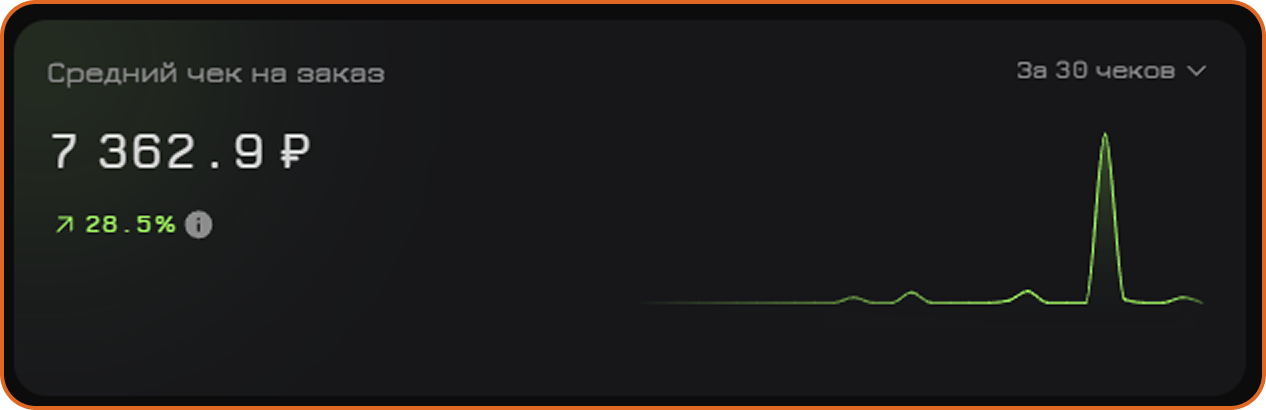
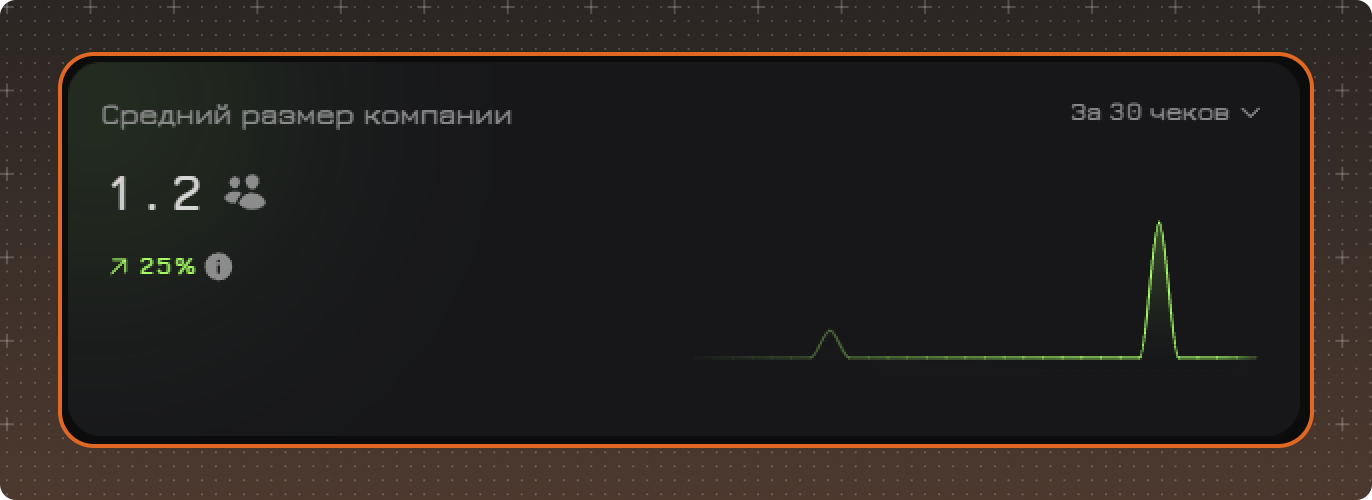
Guest update 19avg (#41)
* guest update 19avg

* update

Changed region(s): [[0.0, 0.0, 1.0, 1.0]]

diff --git a/content/ru/marketing/guests/3.guests-statistics.md b/content/ru/marketing/guests/3.guests-statistics.md
@@ -3,7 +3,7 @@ title: Карточка гостя
 description: 
 summary: 
 order: 3
-updatedAt: 2026-07-13
+updatedAt: 2026-08-19
 ---
 
 
@@ -20,12 +20,6 @@ updatedAt: 2026-07-13
 ![карточка гостя](/ru/images/guests/olga.png)
 
 [[delimiter rows=1]]
-
-
-
-
-
-
 
 
 
@@ -70,14 +64,9 @@ updatedAt: 2026-07-13
 
 [[delimiter rows=1]]
 
-Чтобы изменить личные данные гостя, нажмите кнопку с двоеточием и выберите **Редактировать**.
+Чтобы изменить личные данные гостя, нажмите кнопку с двоеточием и выберите **Редактировать**. Внесите необходимые изменения и нажмите **Сохранить**.
 
-После этого можно изменить имя, фамилию, пол, дату рождения, адрес электронной почты, Telegram, телефон или номер карты лояльности.
-
-> **Примечание.** При редактировании личных данных учитывайте следующие ограничения:  
-> ✔ Если к номеру телефона привязана карта лояльности, изменить номер телефона невозможно.  
-> ✔ Номер карты лояльности можно изменить только для VIP-карты, выданной компанией. Номер карты лояльности из другой системы изменить невозможно.  
-> ✔ У гостя с VIP-картой лояльности не может быть указан номер телефона.
+Подробнее о смене номера телефона см. в разделе [**Номера телефона**](/ru/marketing/guests/2.guests-create#номера-телефона).
 
 
 
@@ -89,25 +78,25 @@ updatedAt: 2026-07-13
 
 [[delimiter rows=1]]
 
-**01.** Аватар гостя  
-**02.** Заметка и предпочтения  
-**03.** Программа лояльности   
-**04.** Средний чек на заказ   
-**05.** Средний размер компании   
-**06.** Средний чек на гостя     
-**07.** Среднее количество заказов в месяц  
-**08.** Автотеги и ручные теги  
-**09.** Посещения  
-**10.** Ключевые показатели  
+**1. Аватар гостя**  
+**2. Заметка и предпочтения**  
+**3. Программа лояльности**  
+**4. Средний чек на заказ**  
+**5. Средний размер компании**  
+**6. Средний чек на гостя**  
+**7. Среднее количество заказов в месяц**  
+**8. Автотеги и ручные теги**  
+**9. Посещения**  
+**10. Ключевые показатели** 
 
 ![карточка гостя низ](/ru/images/guests/guest-main-bottom.png) 
 
 [[delimiter rows=1]]
 
-**11.** Всего заплачено  
-**12.** Топ категорий  
-**13.** Топ продуктов  
-**14.** Время посещения  
+**11. Всего заплачено**  
+**12. Топ категорий**  
+**13. Топ продуктов**  
+**14. Время посещения** 
 
 
 ### 1. Аватар гостя
@@ -126,7 +115,7 @@ updatedAt: 2026-07-13
 
 ✔ краткое описание текущего RFM-статуса
 
-Подробную информацию можно найти на странице [RFM](https://wiki.cosmosresto.ru/ru/marketing/rfm/).
+Подробную информацию можно найти на странице **[RFM](https://wiki.cosmosresto.ru/ru/marketing/rfm/)**.
 
 
 ### 2. Заметка и предпочтения
@@ -152,7 +141,7 @@ updatedAt: 2026-07-13
 
 [[delimiter rows=1]]
 
-В верхней части карточки расположен виджет программы лояльности. В нем отображается баланс бонусного счета, привязанного к карте лояльности.
+В верхней части карточки гостя расположен виджет программы лояльности. В нем отображается баланс бонусного счета, привязанного к карте лояльности.
 
 Нажмите на виджет, чтобы открыть список всех бонусных счетов гостя. Для каждого счета отображаются его название и текущий баланс.
 
@@ -164,7 +153,7 @@ updatedAt: 2026-07-13
 
 ### 4. **Средний чек на заказ**
 
-![Средний чек на заказ](/ru/images/guests/avg-check-order.png)
+![Средний чек на заказ](/ru/images/guests/avg-check-per-order.png)
 
 [[delimiter rows=1]]
 
@@ -192,7 +181,7 @@ updatedAt: 2026-07-13
 
 ### 6. **Средний чек на гостя**
 
-![Средний чек на гостя](/ru/images/guests/avg-check-guest.png)
+![Средний чек на гостя](/ru/images/guests/avg-check-per-guest.png)
 
 [[delimiter rows=1]]
 
@@ -269,18 +258,16 @@ updatedAt: 2026-07-13
 
 Расчет выполняется на основе закрытых чеков в выбранных локациях за выбранный период.
 
-Отображаются:
+Отображаются:  
 
-| Показатель | Описание |
-|------------|----------|
-| **Сумма оплат** | Общая сумма оплат по всем чекам гостя |
-| **Скидка** | Общая сумма скидок по всем чекам гостя |
-| **Количество чеков** | Общее количество чеков гостя |
-| **Последний чек** | Сумма последнего чека гостя |
-| **Средний чек** | Средняя стоимость одного заказа гостя |
-| **Средний чек за час** | Отношение общей суммы оплат к общей продолжительности визитов |
-| **Среднее время** | Средняя продолжительность визита |
-| **Любимая локация** | Локация, которую гость посещал чаще всего |
+**Сумма оплат**  
+**Скидка**  
+**Количество чеков**  
+**Последний чек**  
+**Средний чек**  
+**Средний чек за час**  
+**Среднее время**  
+**Любимая локация**  
 
 
 **Радиальная диаграмма** отображает относительные значения следующих показателей по сравнению с другими гостями выбранных локаций:

diff --git a/content/ru/marketing/guests/4.guests-reservations.md b/content/ru/marketing/guests/4.guests-reservations.md
@@ -3,7 +3,7 @@ title: Бронирования
 description: 
 summary: 
 order: 4
-updatedAt: 2026-07-13
+updatedAt: 2026-08-19
 ---
 [[delimiter rows=1]]
 
@@ -13,9 +13,34 @@ updatedAt: 2026-07-13
 
 [[delimiter rows=1]]
 
-### Таблица бронирований
 
-![Выбор столбцов](/ru/images/guests/reservations-column.png)
+
+
+### Сводка бронирований
+
+Нажмите кнопку **Сводка** в нижней части окна.
+
+![брони сводка](/ru/images/guests/guest-res.png)
+
+[[delimiter rows=1]]
+
+![брони сводка отмененные](/ru/images/guests/guest-res-cancelled.png)
+
+[[delimiter rows=1]]
+
+С помощью переключателя **Активные / Отменено** можно просматривать сводку по активным и отменённым бронированиям.
+
+Для активных бронирований данные распределены по статусам, для отменённых — по причинам отмены.
+
+В строке **Гости** указано количество гостей в бронированиях, а в строке **Бронирования** — количество бронирований.
+
+> **Примечание.** Сводка рассчитывается по всем бронированиям, соответствующим выбранным фильтрам.
+
+
+
+### Управление таблицей
+
+![Выбор столбцов](/ru/images/guests/res-column.png)
 
 [[delimiter rows=1]]
 
@@ -29,34 +54,17 @@ updatedAt: 2026-07-13
 ✔ Закрепить нужные столбцы    
 ✔ Вернуть настройки по умолчанию с помощью команды **Сбросить к начальным значениям** 
 
+> **Примечание.**  Настройки таблицы сохраняются после обновления страницы и при переходе между карточками гостей. После выхода из системы настройки сбрасываются.
 
 
 [[delimiter rows=1]]
 
-> **Примечание.** Настройки таблицы сохраняются после обновления страницы и при переходе между карточками гостей. После выхода из системы настройки сбрасываются.
-
-### Сводка
-
-![брони сводка](/ru/images/guests/reservations-total.png)
-
-[[delimiter rows=1]]
-
-Нажмите кнопку **Сводка** в нижней части окна.
-
-Отобразится сводная информация по бронированиям:
-
-✔ количество гостей  
-✔ количество бронирований  
-✔ распределение бронирований по статусам
 
 
-
-
-> **Примечание.** Сводка рассчитывается по всем бронированиям, соответствующим выбранным фильтрам, включая записи на других страницах таблицы.
 
 ### Фильтрация данных
 
-![Заказы с фильтрами](/ru/images/guests/filter-res.png) 
+![Заказы с фильтрами](/ru/images/guests/res-filter.png) 
 
 [[delimiter rows=1]]
 
@@ -79,3 +87,5 @@ updatedAt: 2026-07-13
 
 
 [[delimiter rows=3]]
+
+---

diff --git a/content/ru/marketing/guests/5.guests-orders.md b/content/ru/marketing/guests/5.guests-orders.md
@@ -14,6 +14,34 @@ updatedAt: 2026-07-13
 
 [[delimiter rows=1]]
 
+
+### Просмотр заказа
+
+Нажмите на строку в таблице.
+
+Откроется окно с деталями заказа, в котором можно просмотреть его состав.
+
+![детали заказа](/ru/images/guests/order-details.png)
+
+[[delimiter rows=1]]
+
+
+
+
+
+### Сводка
+
+Нажмите кнопку **Сводка** в нижней части окна.
+
+Отобразится сводная информация о сумме заказов, соответствующих выбранным фильтрам.
+
+![Сумма чеков](/ru/images/guests/orders-total.png) 
+
+[[delimiter rows=1]]
+
+> **Примечание.** В расчет включаются все заказы, соответствующие выбранным фильтрам.
+
+
 ### Таблица заказов
 
 ![Column wizard](/ru/images/guests/orders-column.png)
@@ -31,36 +59,6 @@ updatedAt: 2026-07-13
 ✔ вернуть настройки по умолчанию с помощью команды **Сбросить к начальным значениям**
 
 > **Примечание.** Настройки таблицы сохраняются после обновления страницы и при переходе между карточками гостей. После выхода из системы настройки сбрасываются.
-
-
-
-
-
-### Просмотр заказа
-
-![детали заказа](/ru/images/guests/order-details.png)
-
-[[delimiter rows=1]]
-
-Нажмите на строку в таблице.
-
-Откроется окно с деталями заказа, в котором можно просмотреть его состав.
-
-
-
-### Сводка
-
-![Сумма чеков](/ru/images/guests/orders-total.png) 
-
-[[delimiter rows=1]]
-
-Нажмите кнопку **Сводка** в нижней части окна.
-
-Отобразится сводная информация о сумме заказов, соответствующих выбранным фильтрам.
-
-> **Примечание.** В расчет включаются все заказы, соответствующие выбранным фильтрам, включая записи на других страницах таблицы.
-
-
 
 
 ### Фильтрация данных
